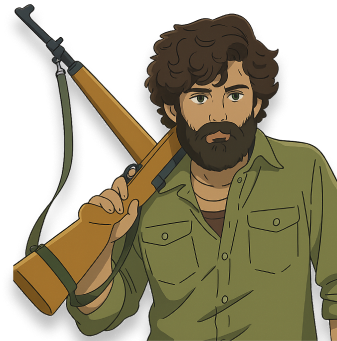
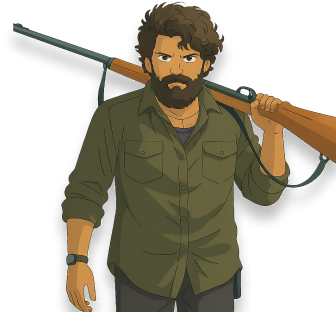
Refactor: Bugs & errors

diff --git a/apps/ui-landing/src/components/landingpage/UpcomingEvents.tsx b/apps/ui-landing/src/components/landingpage/UpcomingEvents.tsx
@@ -4,12 +4,8 @@ import React from "react";
 import Image from "next/image";
 import Link from "next/link";
 import { format } from "date-fns";
-import { Loader2 } from "lucide-react";
-import {
-  Card,
-  CardContent,
-  CardFooter,
-} from "@/components/ui/card";
+import { Dot, Loader2 } from "lucide-react";
+import { Card, CardContent, CardFooter } from "@/components/ui/card";
 import { Badge } from "@/components/ui/badge";
 import { useEvents, type EventListItem } from "@/hooks/useEvents";
 
@@ -135,12 +131,13 @@ export const UpcomingEvents = () => {
   return (
     <section className="w-full py-12 md:py-16 lg:py-20 bg-background">
       <div className="container px-4 md:px-6 mx-auto">
-        <div className="mb-8 space-y-2">
+        <div className="mb-8 space-y-2 flex flex-col gap-2">
           <h2 className="text-3xl font-bold tracking-tighter sm:text-4xl md:text-5xl poppins text-foreground">
             Upcoming Events
           </h2>
           <p className="text-muted-foreground text-lg inter">
-            Stay ahead with the latest events, workshops, and conferences.
+            Don’t miss what’s next, stay updated with upcoming events and
+            sessions.
           </p>
         </div>
 
@@ -148,13 +145,17 @@ export const UpcomingEvents = () => {
           {displayEvents.map((event) => {
             const startDate = new Date(event.startDate);
             const formattedDate = format(startDate, "dd MMM yyyy");
+            const formattedDeadLineDate = format(
+              new Date(event.registrationDeadline),
+              "dd MMM yyyy"
+            );
             const mode = formatMode(event.locationType);
             const entryFee = formatEntryFee(event);
             const isFree = event.isFree;
 
             return (
               <Link key={event.id} href={`/events/${event.slug}`}>
-                <Card className="p-0 overflow-hidden border-border/50 hover:shadow-md transition-all duration-300 group bg-card h-full flex flex-col">
+                <Card className="gap-2 p-0 overflow-hidden border-border/50 hover:shadow-md transition-all duration-300 group bg-card h-full flex flex-col">
                   {/* Image Section */}
                   <div className="relative w-full h-48 sm:h-56 overflow-hidden bg-muted">
                     {event.bannerImageUrl ? (
@@ -172,70 +173,62 @@ export const UpcomingEvents = () => {
                       </div>
                     )}
                     <div className="absolute inset-0 bg-gradient-to-t from-black/60 to-transparent opacity-0 group-hover:opacity-100 transition-opacity duration-300" />
+                    <div className="absolute bottom-0 right-0 bg-background rounded-tl-lg px-3 flex text-primary-500 text-xs">
+                      {["Free", "Offline"].map((item, index) => (
+                        <div key={index} className="flex gap-0.5 items-center">
+                          {index > 0 && <Dot />}
+                          <span>{item}</span>
+                        </div>
+                      ))}
+                    </div>
                   </div>
 
                   {/* Content Section */}
-                  <CardContent className="p-5 space-y-3 flex-grow">
-                    <div className="flex flex-wrap gap-2">
-                      <Badge
-                        variant="secondary"
-                        className={`text-xs font-normal px-2 py-0.5 rounded-sm ${
-                          isFree
-                            ? "bg-purple-100 text-purple-600 hover:bg-purple-200 dark:bg-purple-900/30 dark:text-purple-300"
-                            : "bg-muted text-muted-foreground"
-                        }`}
-                      >
-                        {entryFee}
-                      </Badge>
-                      <Badge
-                        variant="secondary"
-                        className="text-xs font-normal px-2 py-0.5 rounded-sm bg-muted text-muted-foreground"
-                      >
-                        {mode}
-                      </Badge>
-                      {event.eventType && (
-                        <Badge
-                          variant="secondary"
-                          className="text-xs font-normal px-2 py-0.5 rounded-sm bg-muted text-muted-foreground"
-                        >
-                          {event.eventType}
-                        </Badge>
+                  <CardContent className="space-y-2 flex-grow">
+                    <div className="flex gap-0.5 items-center overflow-ellipsis inter text-xs text-neutral-600">
+                      {["Every Tue", formattedDate, "10:00AM"].map(
+                        (item, index) => (
+                          <p key={index} className="gap-0.5 flex items-center">
+                            {index > 0 && <Dot />}
+                            {item}
+                          </p>
+                        )
                       )}
                     </div>
+                    <h3 className="font-semibold text-xl text-neutral-900">
+                      {event.name}
+                    </h3>
 
-                    <div className="space-y-1">
-                      <h3 className="text-xl font-semibold leading-tight poppins text-foreground line-clamp-2">
-                        {event.name}
-                      </h3>
-                      <p className="text-sm text-muted-foreground inter line-clamp-1">
-                        {event.organizationName || "Event Organizer"}
-                      </p>
+                    <div className="flex justify-between items-center text-sm pb-3">
+                      <div className="flex flex-col gap-2 ">
+                        <span className="text-xs text-neutral-500">
+                          Attendees
+                        </span>
+                        <span className="text-neutral-700">0</span>
+                      </div>
+                      <div className="flex flex-col gap-2 ">
+                        <span className="text-xs text-neutral-500">
+                          Register By
+                        </span>
+                        <span className="text-neutral-700">
+                          {formattedDeadLineDate}
+                        </span>
+                      </div>
+                      <div className="flex flex-col gap-2  text-right">
+                        <span className="text-xs text-neutral-500">
+                          Entry Fee
+                        </span>
+                        <span className="text-neutral-700">{entryFee}</span>
+                      </div>
                     </div>
                   </CardContent>
-
-                  {/* Footer Section */}
-                  <CardFooter className="p-5 pt-0 flex justify-between items-center text-sm border-t border-border/40 mt-auto bg-muted/5">
-                    <div className="flex flex-col gap-0.5 mt-3">
-                      <span className="text-[10px] uppercase text-muted-foreground font-medium tracking-wider">
-                        Event Date
-                      </span>
-                      <span className="font-semibold text-foreground inter">
-                        {formattedDate}
-                      </span>
-                    </div>
-                    <div className="flex flex-col gap-0.5 mt-3 text-right">
-                      <span className="text-[10px] uppercase text-muted-foreground font-medium tracking-wider">
-                        Registrations
-                      </span>
-                      <span className="font-semibold text-foreground inter">
-                        {event.registrationCount} joined
-                      </span>
-                    </div>
-                  </CardFooter>
                 </Card>
               </Link>
             );
           })}
+          {displayEvents.length == 1 && (
+            <div className="col-span-2 bg-[url('/competition_placeholder.png')] bg-cover bg-center bg-no-repeat"></div>
+          )}
         </div>
       </div>
     </section>

diff --git a/apps/ui-landing/src/app/dashboard/events/[slug]/edit-event/_components/EventPreview.tsx b/apps/ui-landing/src/app/dashboard/events/[slug]/edit-event/_components/EventPreview.tsx
@@ -59,7 +59,10 @@ interface EventData {
 /**
  * Get initials from a name for avatar fallback.
  */
-function getInitials(firstName: string | null, lastName: string | null): string {
+function getInitials(
+  firstName: string | null,
+  lastName: string | null
+): string {
   const first = (firstName ?? "").trim().charAt(0).toUpperCase();
   const last = (lastName ?? "").trim().charAt(0).toUpperCase();
   return first + last || "??";
@@ -122,7 +125,9 @@ export function EventPreview({ slug }: EventPreviewProps) {
   if (error || !eventRaw) {
     return (
       <div className="min-h-[400px] flex flex-col items-center justify-center gap-4">
-        <h1 className="text-xl font-bold text-foreground">Preview Unavailable</h1>
+        <h1 className="text-xl font-bold text-foreground">
+          Preview Unavailable
+        </h1>
         <p className="text-muted-foreground">
           Unable to load event preview. Please save your changes and try again.
         </p>
@@ -241,9 +246,11 @@ export function EventPreview({ slug }: EventPreviewProps) {
                 <h2 className="text-2xl font-bold mb-4 text-foreground poppins">
                   About Event
                 </h2>
-                <div className="prose dark:prose-invert max-w-none text-zinc-600 dark:text-zinc-300 inter">
+                <div className="prose dark:prose-invert max-w-none text-zinc-600 dark:text-zinc-300 inter whitespace-pre-line">
                   {event.description ? (
-                    <div dangerouslySetInnerHTML={{ __html: event.description }} />
+                    <div
+                      dangerouslySetInnerHTML={{ __html: event.description }}
+                    />
                   ) : (
                     <p>No description available.</p>
                   )}
@@ -268,15 +275,21 @@ export function EventPreview({ slug }: EventPreviewProps) {
                       />
                     ) : (
                       <div className="w-12 h-12 rounded-full bg-[#5B2E63] text-white flex items-center justify-center font-bold text-lg flex-shrink-0">
-                        {getInitials(event.owner.firstName, event.owner.lastName)}
+                        {getInitials(
+                          event.owner.firstName,
+                          event.owner.lastName
+                        )}
                       </div>
                     )}
                     <div>
                       <h4 className="font-bold text-foreground">
-                        {event.owner.firstName || ""} {event.owner.lastName || "Organizer"}
+                        {event.owner.firstName || ""}{" "}
+                        {event.owner.lastName || "Organizer"}
                       </h4>
                       {event.contactPhone && (
-                        <p className="text-xs text-zinc-500">{event.contactPhone}</p>
+                        <p className="text-xs text-zinc-500">
+                          {event.contactPhone}
+                        </p>
                       )}
                       <p className="text-xs text-zinc-500">
                         {event.contactEmail || event.owner.email}
@@ -291,12 +304,18 @@ export function EventPreview({ slug }: EventPreviewProps) {
                         {event.contactName.charAt(0).toUpperCase()}
                       </div>
                       <div>
-                        <h4 className="font-bold text-foreground">{event.contactName}</h4>
+                        <h4 className="font-bold text-foreground">
+                          {event.contactName}
+                        </h4>
                         {event.contactPhone && (
-                          <p className="text-xs text-zinc-500">{event.contactPhone}</p>
+                          <p className="text-xs text-zinc-500">
+                            {event.contactPhone}
+                          </p>
                         )}
                         {event.contactEmail && (
-                          <p className="text-xs text-zinc-500">{event.contactEmail}</p>
+                          <p className="text-xs text-zinc-500">
+                            {event.contactEmail}
+                          </p>
                         )}
                       </div>
                     </div>
@@ -316,12 +335,16 @@ export function EventPreview({ slug }: EventPreviewProps) {
                         key={prize.id}
                         className="p-4 border border-zinc-200 dark:border-zinc-800 rounded-xl"
                       >
-                        <h4 className="font-bold text-foreground">{prize.position}</h4>
+                        <h4 className="font-bold text-foreground">
+                          {prize.position}
+                        </h4>
                         <p className="text-xl font-bold text-primary">
                           {event.currency} {prize.amount.toLocaleString()}
                         </p>
                         {prize.description && (
-                          <p className="text-sm text-zinc-500 mt-2">{prize.description}</p>
+                          <p className="text-sm text-zinc-500 mt-2">
+                            {prize.description}
+                          </p>
                         )}
                       </div>
                     ))}

diff --git a/apps/ui-landing/src/components/ui/editor/RichtextEditor.tsx b/apps/ui-landing/src/components/ui/editor/RichtextEditor.tsx
@@ -58,11 +58,11 @@ export default function RichTextEditor({
 
   return (
     <div
-      className={`border rounded-lg bg-white overflow-hidden flex flex-col w-full ${className || ""}`}
+      className={`border rounded-lg bg-white overflow-hidden flex flex-col w-full max-h-[600px] ${className || ""}`}
     >
       <Toolbar editor={editor} />
       <div
-        className="flex-1 overflow-y-auto cursor-text"
+        className="flex-1 overflow-y-auto cursor-text scrollbar-thin scrollbar-thumb-gray-300 scrollbar-track-transparent"
         onClick={() => editor.chain().focus().run()}
       >
         <EditorContent editor={editor} className="min-h-[200px]" />

diff --git a/apps/ui-landing/src/app/competitions/[slug]/_components/AboutSection.tsx b/apps/ui-landing/src/app/competitions/[slug]/_components/AboutSection.tsx
@@ -1,6 +1,6 @@
-'use client';
+"use client";
 
-import './main.css';
+import "./main.css";
 
 interface AboutSectionProps {
   content: string;
@@ -12,8 +12,8 @@ export function AboutSection({ content }: AboutSectionProps) {
       <h2 className="text-xl font-bold text-zinc-900 dark:text-zinc-100">
         About Hackathon
       </h2>
-      <div 
-        className="html-content"
+      <div
+        className="html-content whitespace-pre-line"
         dangerouslySetInnerHTML={{ __html: content }}
       />
     </div>

diff --git a/apps/ui-landing/src/components/ui/derived/DescriptionEditorModal.tsx b/apps/ui-landing/src/components/ui/derived/DescriptionEditorModal.tsx
@@ -73,7 +73,7 @@ export default function DescriptionEditorModal({
             <RichTextEditor
               value={value}
               onChange={setValue}
-              className="h-full border-0 rounded-none"
+              className="h-full max-h-none border-0 rounded-none"
             />
           </div>
         </div>

diff --git a/apps/ui-landing/src/app/page.tsx b/apps/ui-landing/src/app/page.tsx
@@ -7,8 +7,8 @@ const Home = () => {
   return (
     <div className="px-2 sm:px-4 md:px-10 lg:px-20 xl:px-25">
       <HeroSection />
-      <UpcomingCompetitions />
       <UpcomingEvents />
+      <UpcomingCompetitions />
       {/* <ActiveCommunitypage /> */}
     </div>
   );

diff --git a/apps/ui-landing/src/hooks/useEvents.ts b/apps/ui-landing/src/hooks/useEvents.ts
@@ -12,6 +12,7 @@ export interface EventListItem {
   bannerImageUrl: string | null;
   startDate: string;
   endDate: string;
+  registrationDeadline: string;
   status: string;
   locationType: string | null;
   locationCity: string | null;
